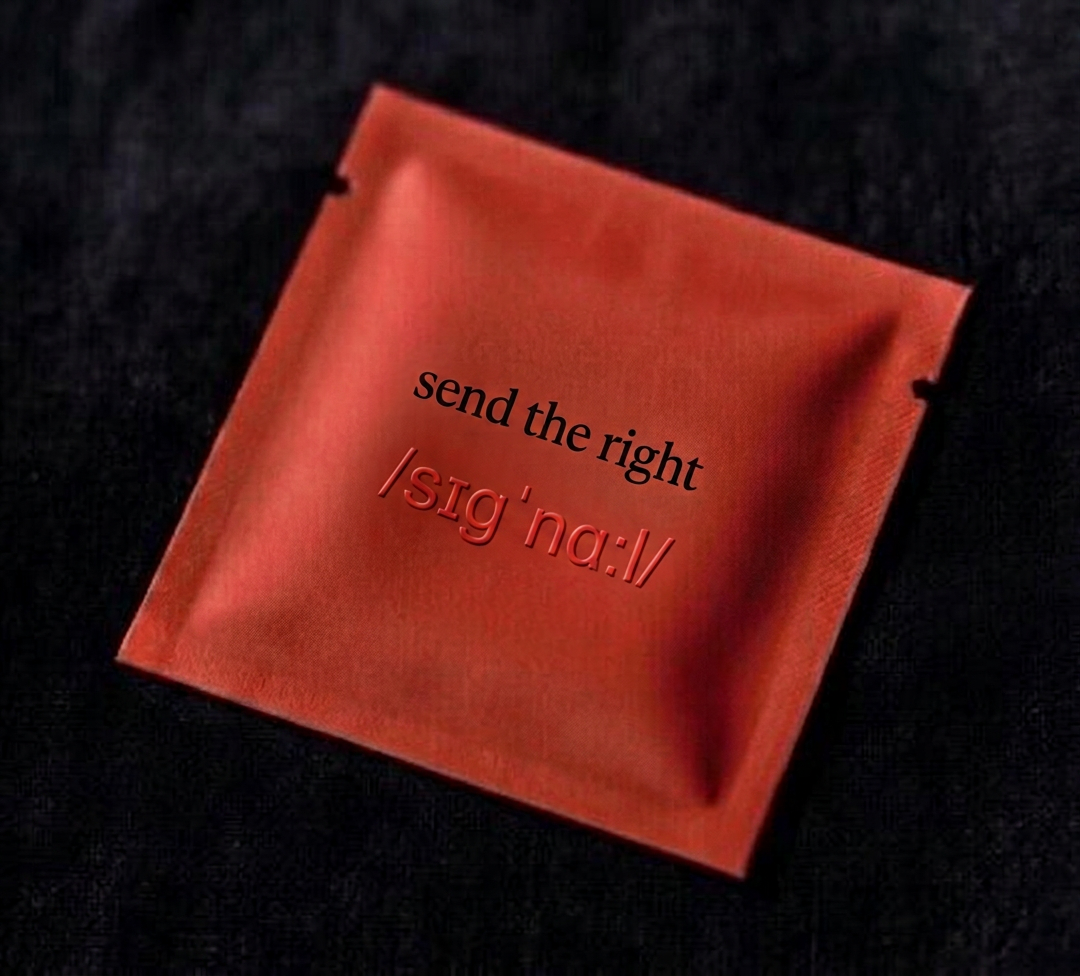
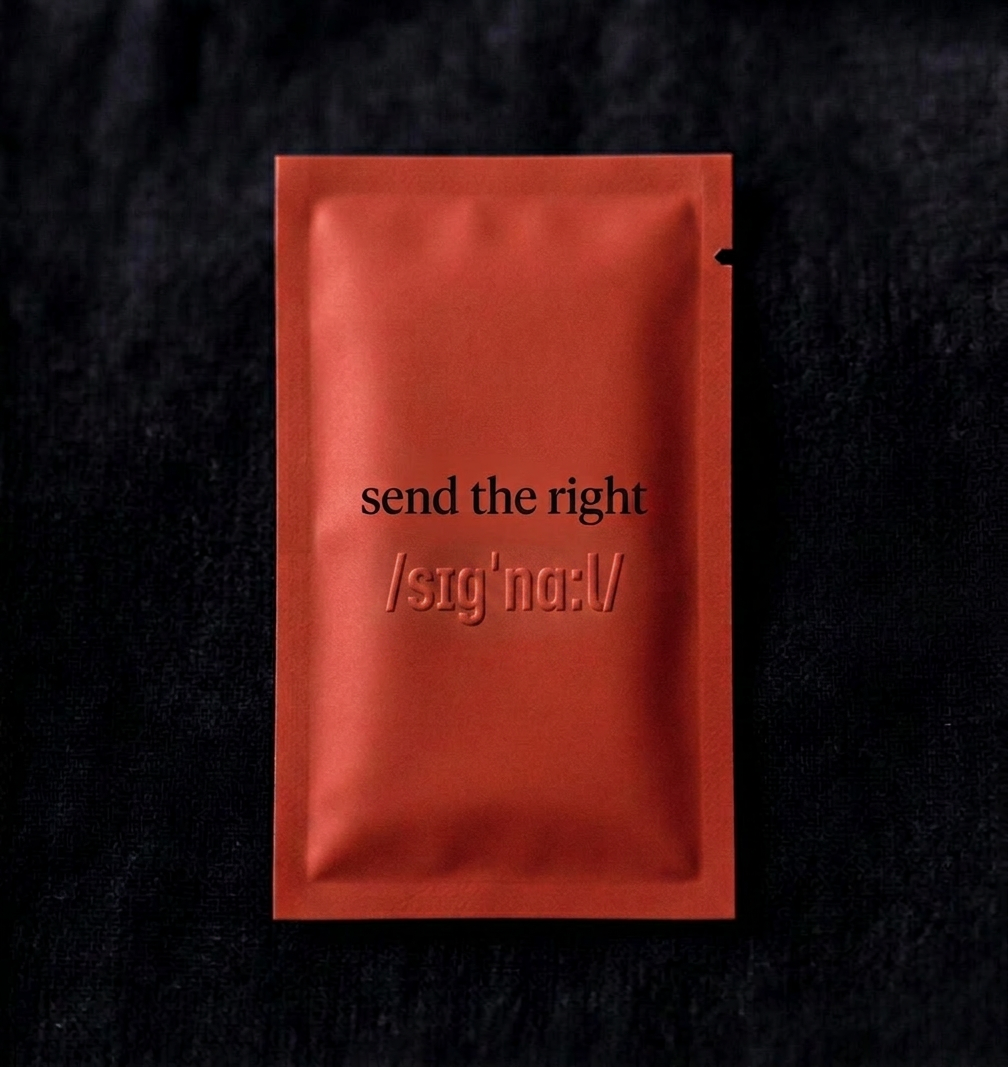
v5 slide 04b Lightbulb: degender + packet-serving correction + 3-chew packet renders
Three issues caught on first re-read of the v5 deck:

1. Gender: slide 04b Lightbulb + embedded Arc used third-person "she/her"
   throughout, narrating Persona A Optimizer Mom. The demographic filter
   is gender-neutral at platform level ("gen z through aging well" per
   feedback_demographic_is_behavioral); only the glow-SKU narrative
   retains feminine voice. Converted 14+ instances to second-person
   "you/your" matching the consumer deck Lightbulb baseline.

2. Serving architecture: the Lightbulb closing line said "she takes one
   a day, not because she feels it working..." — "one a day" was
   ambiguous and wrong (serving = 1 packet = 3 chews, not 1 chew).
   Rewritten to "you take a packet a day." Also fixed the related
   "One chew. Every day." in card 03 to "One packet. Every day."

3. Packet images: v5/signal_packet.png and signal_packet_back.png were
   still the Apr 16 4-chew renders. Replaced with the Apr 18 3-chew
   renders that already ship on signal-consumer, signal-investor, and
   signal-teaser.

Also caught: moat slide line 448 had residual "She doesn't have to drop
her collagen powder" — converted to "You don't have to drop your..."

diff --git a/v5/index.html b/v5/index.html
@@ -226,53 +226,53 @@
   </div>
 </section>
 
-<!-- ==================== 04b • THE LIGHTBULB (lightbulb moment + her arc) ==================== -->
+<!-- ==================== 04b • THE LIGHTBULB (lightbulb moment + the arc) ==================== -->
 <section class="slide">
   <div class="section-label">The Lightbulb</div>
-  <h2>She wasn't missing ingredients. <span class="highlight">She was missing energy.</span></h2>
-  <p style="max-width: 860px;">She's been stacking supplements for years. Collagen in coffee. Electrolyte sticks. A beauty gummy. A greens multi. Four to five products a day, $7.50 on the low end. Never sure what any of it was doing. The problem was never the ingredients she was putting in. It was what happened to them once they got inside.</p>
+  <h2>You weren't missing ingredients. <span class="highlight">You were missing energy.</span></h2>
+  <p style="max-width: 860px;">You've been stacking supplements for years. Collagen in coffee. Electrolyte sticks. A beauty gummy. A greens multi. Four to five products a day, $7.50 on the low end. Never sure what any of it was doing. The problem was never the ingredients you were putting in. It was what happened to them once they got inside.</p>
 
   <div class="card-grid" style="grid-template-columns: repeat(3, 1fr); margin-top: 40px;">
     <div class="card">
-      <div class="card-label">01 &middot; her shelf</div>
+      <div class="card-label">01 &middot; your shelf</div>
       <h4>is full.</h4>
-      <p>Collagen, HA, B-vitamins, electrolytes, probiotics. Raw materials everywhere. She&rsquo;s already invested in the ingredients. The ingredients aren&rsquo;t the problem.</p>
+      <p>Collagen, HA, B-vitamins, electrolytes, probiotics. Raw materials everywhere. You&rsquo;ve already invested in the ingredients. The ingredients aren&rsquo;t the problem.</p>
     </div>
     <div class="card">
-      <div class="card-label">02 &middot; her cells</div>
+      <div class="card-label">02 &middot; your cells</div>
       <h4>are the bottleneck.</h4>
-      <p>Without the energy to use what she&rsquo;s giving them, her cells are running on substrate alone. She&rsquo;s feeding a machine that can&rsquo;t fully run.</p>
+      <p>Without the energy to use what you&rsquo;re giving them, your cells are running on substrate alone. You&rsquo;re feeding a machine that can&rsquo;t fully run.</p>
     </div>
     <div class="card">
       <div class="card-label">03 &middot; signal</div>
       <h4>is the missing input.</h4>
-      <p>The signal your cells are waiting for. Every other supplement in her routine finally has a purpose. One chew. Every day. On her time.</p>
+      <p>The signal your cells are waiting for. Every other supplement in your routine finally has a purpose. One packet. Every day. On your time.</p>
     </div>
   </div>
 
   <!-- The arc — second beat -->
-  <h3 style="margin-top: 80px;">Her arc, in three moments.</h3>
-  <p style="max-width: 820px; opacity: 0.75; font-size: 15px;">Ninety days of her actually taking it &mdash; because she wanted to.</p>
+  <h3 style="margin-top: 80px;">The arc, in three moments.</h3>
+  <p style="max-width: 820px; opacity: 0.75; font-size: 15px;">Ninety days of you actually taking it &mdash; because you wanted to.</p>
 
   <div style="display: grid; grid-template-columns: repeat(3, 1fr); gap: 40px; margin-top: 40px;">
     <div>
       <div style="font-family: 'Anguita Sans', 'Bebas Neue', serif; font-size: 52px; font-weight: 900; color: var(--signal); letter-spacing: -2px; line-height: 0.9; text-transform: lowercase;">day 01.</div>
       <div style="font-size: 11px; letter-spacing: 3px; text-transform: uppercase; color: var(--signal); opacity: 0.7; margin-top: 8px; margin-bottom: 16px; font-weight: 700;">the pleasant surprise</div>
-      <p style="font-size: 15px;">A chew she actually wanted to eat. Ninety seconds that felt like a moment, not a task. First thought: <em>this isn&rsquo;t what a supplement experience is supposed to be.</em></p>
+      <p style="font-size: 15px;">A chew you actually wanted to eat. Ninety seconds that felt like a moment, not a task. First thought: <em>this isn&rsquo;t what a supplement experience is supposed to be.</em></p>
     </div>
     <div>
       <div style="font-family: 'Anguita Sans', 'Bebas Neue', serif; font-size: 52px; font-weight: 900; color: var(--signal); letter-spacing: -2px; line-height: 0.9; text-transform: lowercase;">day 30.</div>
       <div style="font-size: 11px; letter-spacing: 3px; text-transform: uppercase; color: var(--signal); opacity: 0.7; margin-top: 8px; margin-bottom: 16px; font-weight: 700;">the habit</div>
-      <p style="font-size: 15px;">She hasn&rsquo;t skipped once. Not out of discipline &mdash; because the ninety seconds is the moment she looks forward to.</p>
+      <p style="font-size: 15px;">You haven&rsquo;t skipped once. Not out of discipline &mdash; because the ninety seconds is the moment you look forward to.</p>
     </div>
     <div>
       <div style="font-family: 'Anguita Sans', 'Bebas Neue', serif; font-size: 52px; font-weight: 900; color: var(--signal); letter-spacing: -2px; line-height: 0.9; text-transform: lowercase;">day 90.</div>
       <div style="font-size: 11px; letter-spacing: 3px; text-transform: uppercase; color: var(--signal); opacity: 0.7; margin-top: 8px; margin-bottom: 16px; font-weight: 700;">the realization</div>
-      <p style="font-size: 15px;">Supplements aren&rsquo;t a chore anymore. Routine stopped feeling like willpower. For the first time, consistency is the easy part &mdash; and she finally gets why it was the whole point all along.</p>
+      <p style="font-size: 15px;">Supplements aren&rsquo;t a chore anymore. Routine stopped feeling like willpower. For the first time, consistency is the easy part &mdash; and you finally get why it was the whole point all along.</p>
     </div>
   </div>
 
-  <p style="margin-top: 72px; font-family: 'Anguita Sans', serif; font-size: 36px; line-height: 1.1; color: var(--signal); font-weight: 900; letter-spacing: -1px; text-transform: lowercase; max-width: 860px;">she takes one a day. not because she feels it working. because she understands why it does.</p>
+  <p style="margin-top: 72px; font-family: 'Anguita Sans', serif; font-size: 36px; line-height: 1.1; color: var(--signal); font-weight: 900; letter-spacing: -1px; text-transform: lowercase; max-width: 860px;">you take a packet a day. not because you feel it working. because you understand why it does.</p>
 </section>
 
 <!-- ==================== 05 • THE SOLUTION ==================== -->
@@ -307,7 +307,7 @@
   <p style="margin-top: 32px;"><strong>The format:</strong> 90-second dissolvable chew. No water, no mixing, no friction. Three chews per packet &mdash; the packet is the dose. 60 packets per container, 2 months. The format is the moat &mdash; covered in slide 6.</p>
 </section>
 
-<!-- ==================== 05b • THE HABIT (why she keeps taking it) ==================== -->
+<!-- ==================== 05b • THE HABIT (why you keep taking it) ==================== -->
 <section class="slide">
   <div class="section-label">The Habit</div>
   <h2>The first supplement you <span class="highlight">actually look forward to taking.</span></h2>
@@ -445,7 +445,7 @@
 
   <p style="max-width: 820px; font-size: 17px; opacity: 0.95; margin-top: 24px;">Every other beauty-from-within brand fights for the top two tiers. signal fights for the bottom one. <strong>You can't out-collagen a brand at Tier 2 without first solving Tier 1.</strong> That's the structural reason signal is a different kind of product, not just another entry in the same category.</p>
 
-  <p style="margin-top: 24px; max-width: 820px; font-size: 15px; opacity: 0.85;">Strategic upside: this also makes signal additive to the rest of a customer's stack instead of competitive with it. She doesn't have to drop her collagen powder to add signal &mdash; signal supports the cells that her collagen powder is asking to do work.</p>
+  <p style="margin-top: 24px; max-width: 820px; font-size: 15px; opacity: 0.85;">Strategic upside: this also makes signal additive to the rest of a customer's stack instead of competitive with it. You don't have to drop your collagen powder to add signal &mdash; signal supports the cells that your collagen powder is asking to do work.</p>
 </section>
 
 <!-- ==================== 09 • WHY IT'S UNCOPYABLE ==================== -->
